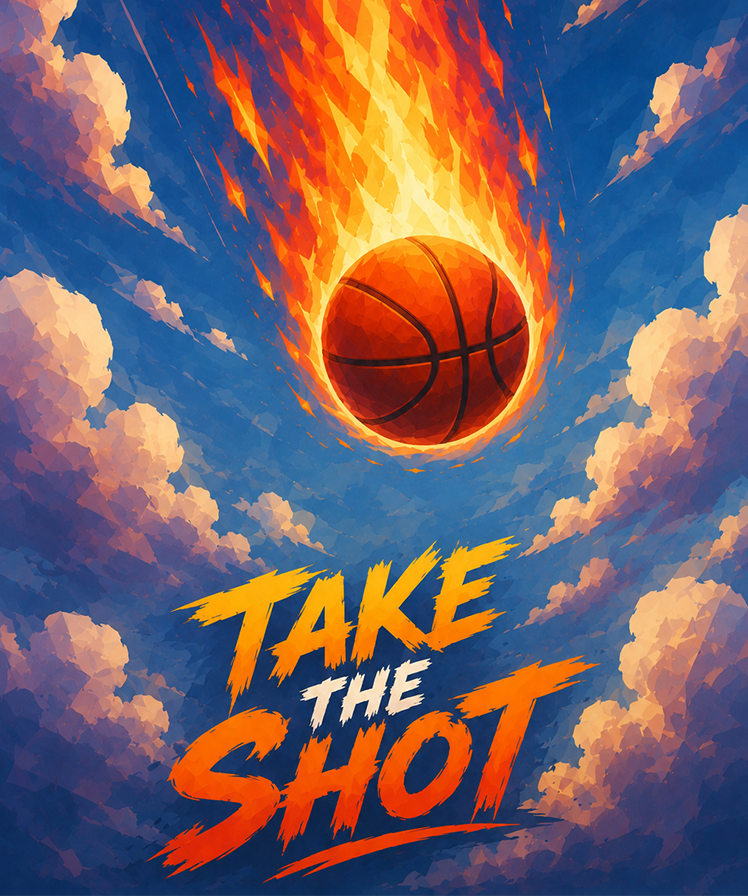
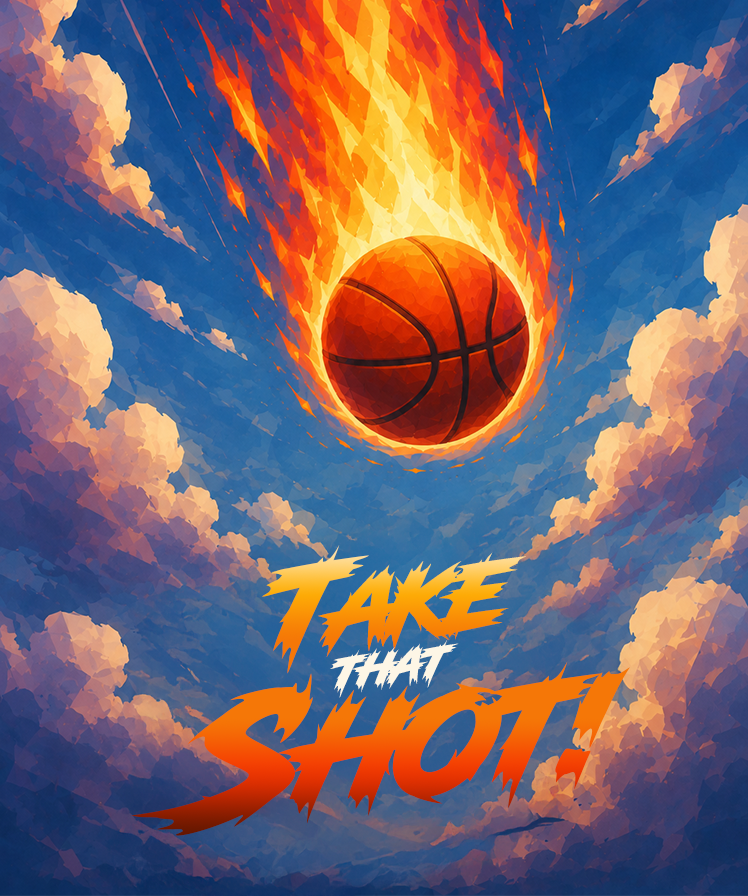
new header for the new game

Changed region(s): [[0.1537, 0.5625, 0.8302, 1.0], [0.1537, 0.9688, 0.1845, 1.0]]

diff --git a/index.html b/index.html
@@ -113,7 +113,7 @@
       <!-- Take The Shot -->
       <article class="project-card">
         <div class="project-thumb project-thumb-soon">
-          <img src="assets/games/taketheshot.png" alt="Take The Shot">
+          <img src="assets/games/takethatshot.png" alt="Take The Shot">
           <div class="thumb-overlay thumb-overlay-soon">
             <span>Coming Soon</span>
           </div>
